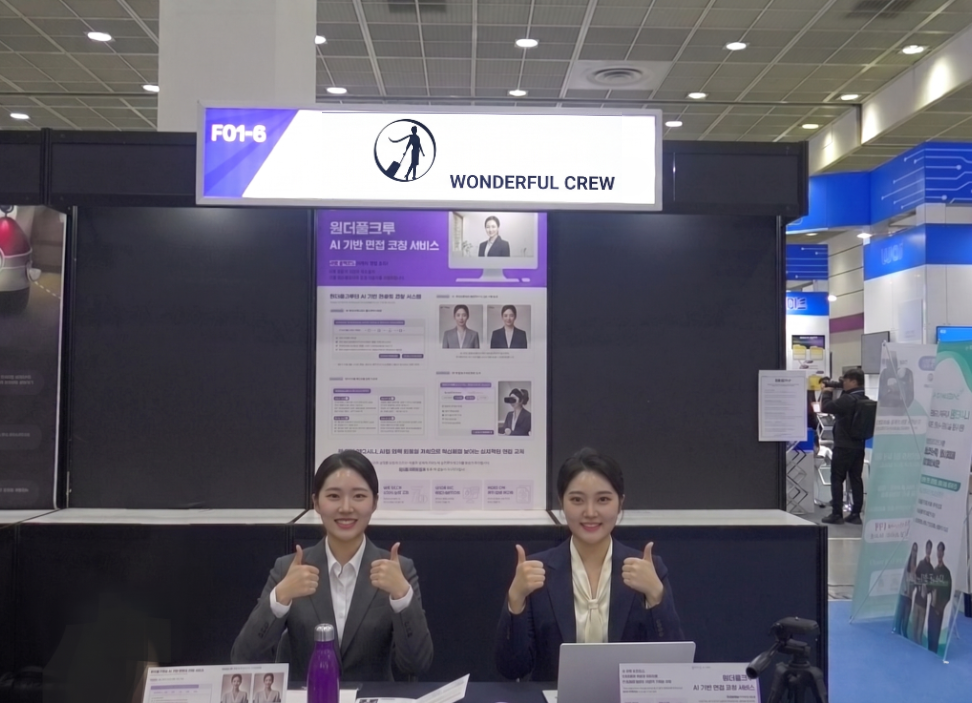
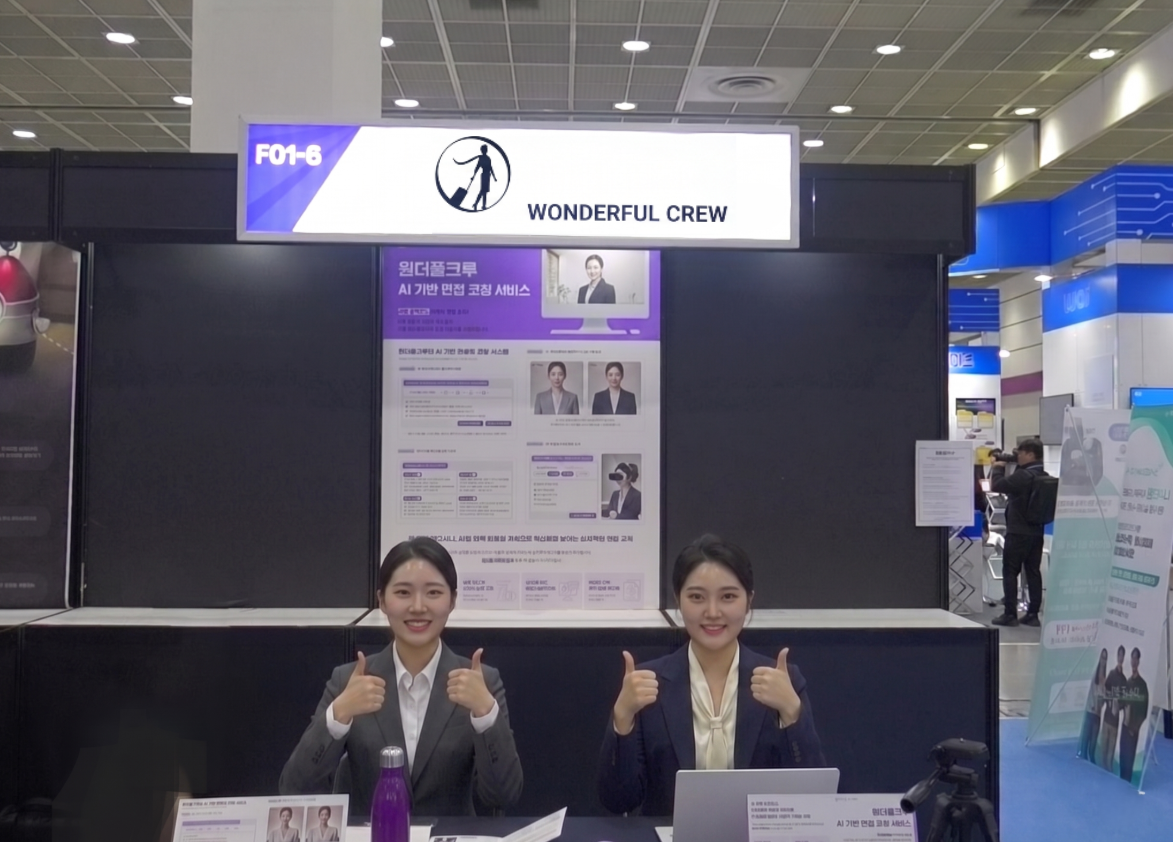
보도자료 코엑스 사진 2장 그리드 표시
- press-coex-softwave.png 갱신 (새 이미지)
- press-coex-softwave2.jpg 추가 (두 번째 부스 사진)
- 본문 inline-image 를 1장 → 2장 그리드 (모바일은 1단)

diff --git a/press/001-bangkok-edutech.html b/press/001-bangkok-edutech.html
@@ -92,6 +92,9 @@ article.body .contact-card p b{color:var(--navy);}
 .inline-image img{display:block;width:100%;height:auto;}
 .inline-image figcaption{padding:12px 20px 14px;font-size:0.8rem;color:var(--text-muted);background:#fff;border-top:1px solid var(--gold-pale);line-height:1.7;}
 .inline-image figcaption b{color:var(--navy);font-weight:600;}
+.inline-image .grid-2{display:grid;grid-template-columns:1fr 1fr;gap:2px;background:var(--gold-pale);}
+.inline-image .grid-2 img{display:block;width:100%;height:100%;object-fit:cover;aspect-ratio:4/3;}
+@media(max-width:600px){.inline-image .grid-2{grid-template-columns:1fr;}.inline-image .grid-2 img{aspect-ratio:auto;}}
 
 .cta-band{background:#fff;border-top:1px solid rgba(201,168,76,0.18);border-bottom:1px solid rgba(201,168,76,0.18);padding:60px 5%;text-align:center;}
 .cta-band .label{font-family:'DM Serif Display',serif;font-size:0.72rem;letter-spacing:0.3em;color:var(--gold);text-transform:uppercase;margin-bottom:14px;font-weight:700;}
@@ -205,8 +208,11 @@ footer{background:var(--navy);color:#fff;padding:60px 5% 30px;}
     원더풀크루는 본 KOTRA 방콕 진출에 앞서, 국내 최대 규모의 에듀테크·AI 박람회인 <strong>「소프트웨이브(Softwave)」 코엑스 전시</strong>에 참가해 국내 직업훈련·교육 시장의 관계자들과 적극적으로 교류한 이력을 보유하고 있다. 당시 부스에서는 외항사 면접 AI 코칭 시스템의 실시간 데모와 합격생 데이터 기반의 코칭 사례가 공개되어, 직업훈련 기관·중·고등학교 항공 관련 학과·기업 인사 담당자들로부터 실질적인 도입 문의가 이어졌다.
   </p>
 
-  <figure class="inline-image">
-    <img src="../images/press-coex-softwave.png" alt="원더풀크루 소프트웨이브 코엑스 에듀테크 전시 부스" loading="lazy">
+  <figure class="inline-image inline-image-grid">
+    <div class="grid-2">
+      <img src="../images/press-coex-softwave.png" alt="원더풀크루 소프트웨이브 코엑스 에듀테크 전시 부스 1" loading="lazy">
+      <img src="../images/press-coex-softwave2.jpg" alt="원더풀크루 소프트웨이브 코엑스 전시 부스 2" loading="lazy">
+    </div>
     <figcaption><b>지난 소프트웨이브 코엑스 전시 부스 현장.</b> 외항사 면접 AI 코칭 시스템과 합격생 데이터 기반 코칭 사례를 국내 직업훈련 관계자들에게 공개했다.</figcaption>
   </figure>
   <p>
